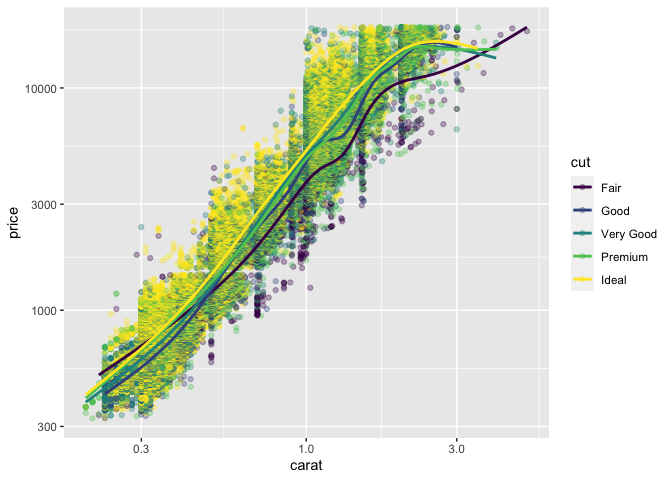
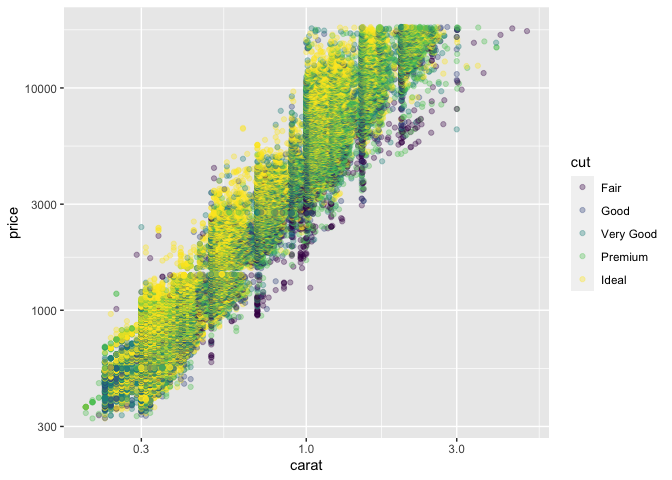
more analysis

diff --git a/challenges/c00-diamonds-solution.md b/challenges/c00-diamonds-solution.md
@@ -1,7 +1,10 @@
 Getting Started: Diamonds
 ================
-Zachary del Rosario
-2020-06-25
+(Your name here)
+2020-
+
+  - [Data Exploration](#data-exploration)
+  - [Bonus Observations](#bonus-observations)
 
 *Purpose*: Throughout this course, you’ll complete a large number of
 *exercises* and *challenges*. Exercises are meant to introduce content
@@ -13,18 +16,20 @@ In this challenge, you will go through the process of exploring,
 documenting, and sharing an analysis of a dataset. We will use these
 skills again and again in each challenge.
 
+<!-- include-rubric -->
+
 ``` r
 library(tidyverse)
 ```
 
-    ## ── Attaching packages ───────────────────────────────────────────────── tidyverse 1.3.0 ──
+    ## ── Attaching packages ──────────────────────────────────────────────────────────────────── tidyverse 1.3.0 ──
 
     ## ✓ ggplot2 3.3.1     ✓ purrr   0.3.4
     ## ✓ tibble  3.0.1     ✓ dplyr   1.0.0
     ## ✓ tidyr   1.1.0     ✓ stringr 1.4.0
     ## ✓ readr   1.3.1     ✓ forcats 0.5.0
 
-    ## ── Conflicts ──────────────────────────────────────────────────── tidyverse_conflicts() ──
+    ## ── Conflicts ─────────────────────────────────────────────────────────────────────── tidyverse_conflicts() ──
     ## x dplyr::filter() masks stats::filter()
     ## x dplyr::lag()    masks stats::lag()
 
@@ -64,12 +69,9 @@ aesthetic (`x`, `y`, etc.) to find an effective visual.
 diamonds %>%
   ggplot(aes(carat, price, color = cut)) +
   geom_point(alpha = 1 / 3) +
-  geom_smooth(se = FALSE) +
   scale_x_log10() +
   scale_y_log10()
 ```
-
-    ## `geom_smooth()` using method = 'gam' and formula 'y ~ s(x, bs = "cs")'
 
 ![](c00-diamonds-solution_files/figure-gfm/q2-task-1.png)<!-- -->
 
@@ -79,3 +81,108 @@ diamonds %>%
   - The `cut` helps explain the variation in price;
       - `Ideal` cut diamonds tend to be more expensive
       - `Fair` cut diamonds tend to be less expensive
+
+**Elaboration**:
+
+The figure above is rather busy; let’s make a simpler visual with
+smoothed trends.
+
+``` r
+diamonds %>%
+  ggplot(aes(carat, price, color = cut)) +
+  geom_smooth() +
+  scale_x_log10() +
+  scale_y_log10() +
+  theme(legend.position = "bottom")
+```
+
+    ## `geom_smooth()` using method = 'gam' and formula 'y ~ s(x, bs = "cs")'
+
+![](c00-diamonds-solution_files/figure-gfm/elaboration-1.png)<!-- -->
+**Observations**:
+
+  - The relationships between `price` and `carat` is very nearly linear
+    when plotted on a log-log scale\!
+      - Furthermore, the slope seems to be constant across different
+        `cut` values.
+  - At low `carat`, the `Fair` diamonds appear to be the most expensive.
+    Is this a real trend?
+      - Note that the confidence band for `Fair` overlaps the other
+        curves, so this is already not a robust conclusion.
+  - At very high `carat`, the price of `Fair` diamonds again become most
+    expensive.
+
+Let’s follow up the low-carat diamonds:
+
+``` r
+diamonds %>% 
+  filter(carat <= 0.3) %>% 
+  
+  ggplot(aes(carat, price)) +
+  geom_hex(bins = 10) +
+  
+  scale_x_continuous(breaks = c(0.2, 0.25, 0.3)) +
+  viridis::scale_fill_viridis() +
+  facet_wrap(~cut) +
+  theme(legend.position = "bottom")
+```
+
+![](c00-diamonds-solution_files/figure-gfm/focus-low-carat-1.png)<!-- -->
+
+**Observations**:
+
+  - The `Fair` observations are far more sparse than other `cut`s in the
+    `carat <= 0.3` range.
+  - Based on observation, the bulk of `Fair` diamonds do not appear to
+    be of especially high `price`.
+      - However, there is an outlier in `price` at `carat` near `0.3`.
+        This may be dragging the trend line up.
+  - Ultimately, the small sample size, edge effect, and the outlier can
+    explain the odd phenomenon with `Fair` in the smoothed trend above.
+    This casts doubt on the conclusions that small `Fair` diamonds are
+    genuinely more expensive.
+
+# Bonus Observations
+
+We haven’t gotten to this point in the exercise sequence yet, but it’s
+usually a good idea to start with 1-dimensional investigations of the
+data when doing EDA. There’s a very interesting pattern just within the
+distribution `carat` values.
+
+``` r
+diamonds %>% 
+  ggplot(aes(carat)) +
+  geom_histogram(bins = 120)
+```
+
+![](c00-diamonds-solution_files/figure-gfm/bonus1-1.png)<!-- -->
+
+**Observations**:
+
+  - Even with a large number of bins there are very tall peaks. Let’s
+    zoom in a bit to inspect closer.
+
+<!-- end list -->
+
+``` r
+wid <- 0.01
+diamonds %>% 
+  filter(carat <= 1.3) %>% 
+  ggplot(aes(carat)) +
+  geom_histogram(boundary = wid / 2, binwidth = wid) +
+  scale_x_continuous(
+    breaks = c(0.3, 0.4, 0.5, 0.7, 0.9, 1, 1.2)
+  )
+```
+
+![](c00-diamonds-solution_files/figure-gfm/bonus2-1.png)<!-- -->
+
+**Observations**:
+
+  - There appear to be peaks in `carat` at particular `0.1` increments.
+  - These peaks tend to have a sharp drop to their left (lower values),
+    with a slower dropoff to their right (higher values).
+  - Since these diamonds are meant for sale, these patterns are likely
+    reflect the desires of the market: i.e. people desire diamonds at
+    these specific carat values, and will buy diamonds slightly above
+    (but not slightly below) those values.
